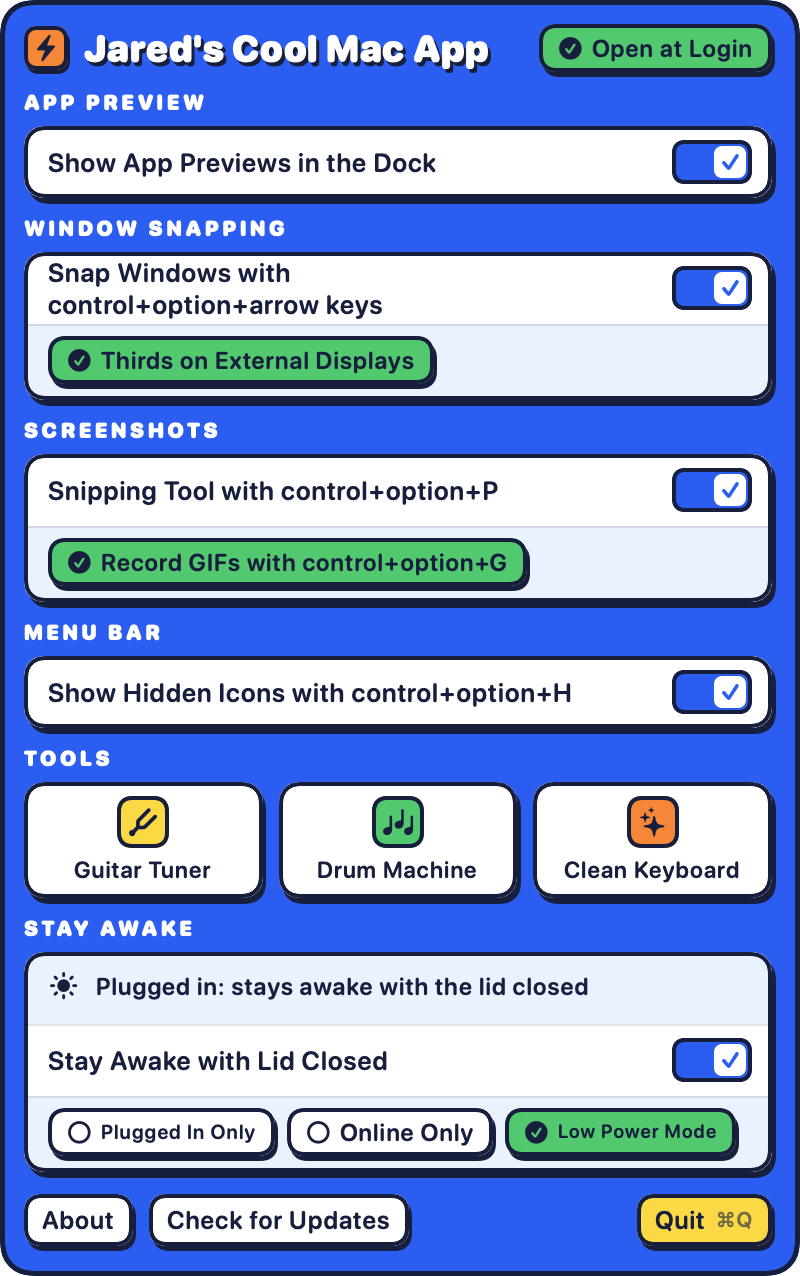
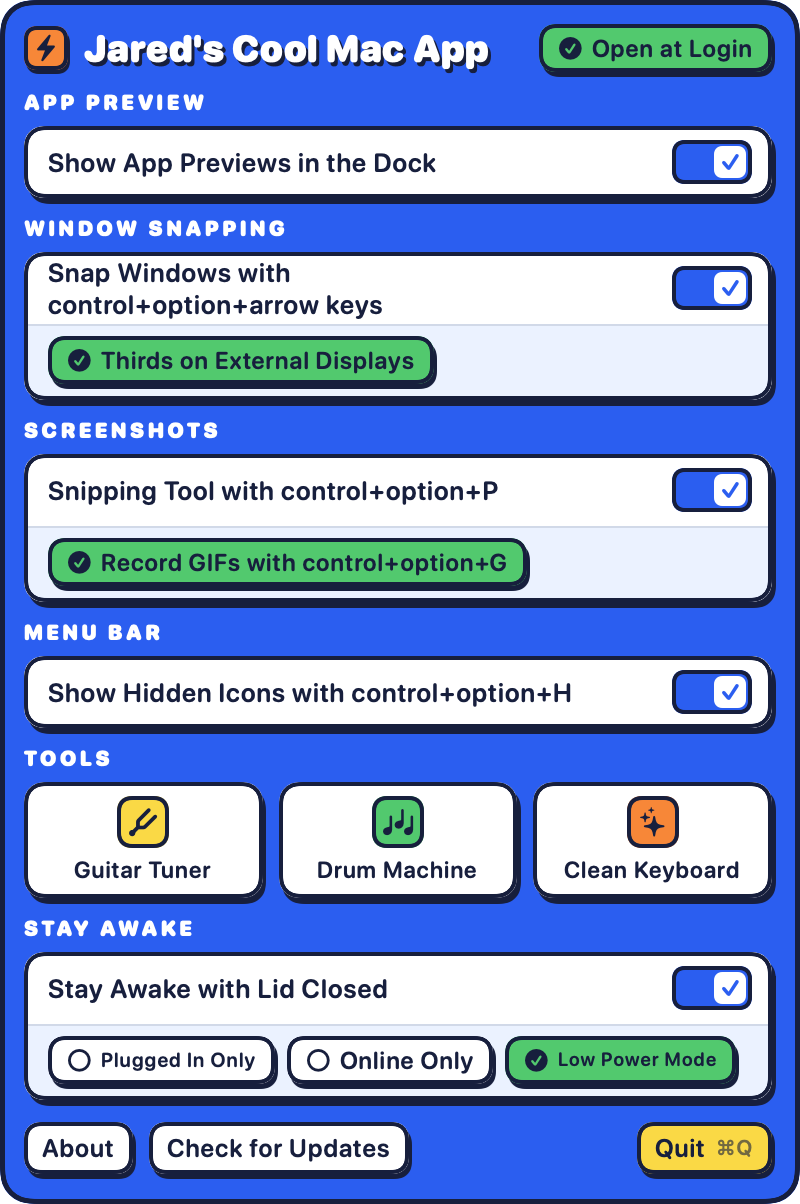
Stay Awake: the status line only when it says more than the switch
"Plugged in: stays awake with the lid closed" read the same whether Plugged In Only was on or not, and only repeated
the switch, as "Off: closing the lid sleeps your Mac" did. Now the line shows only when the Mac will sleep anyway
(on battery with Plugged In Only, battery low, offline with Online Only) or something needs doing (Finish Setup…,
Turn Sleep Back On…). It moves under the options, like the notes under the other switches, so a chip that brings it
up stays under the pointer. The menu bar icon's tooltip still says what it's doing. The README's picture of the
menu loses the row.

diff --git a/Sources/JaredsMacUtils/MenuPanel.swift b/Sources/JaredsMacUtils/MenuPanel.swift
@@ -31,7 +31,8 @@ final class MenuModel {
     var isDisabled: Set<MenuToggle> = []
     var snapAction: MenuAction?
     var snipAction: MenuAction?
-    var stayAwakeSummary = ""
+    /// Only when it says more than the switch does: why the Mac sleeps anyway, or what needs doing
+    var stayAwakeSummary: String?
     var stayAwakeSymbol = "moon.fill"
     var stayAwakeAction: MenuAction?
     var isCheckingForUpdates = false
@@ -249,7 +250,6 @@ struct MenuView: View {
             }
             section("Stay Awake") {
                 card {
-                    StatusRow(model: model)
                     ToggleRow(model: model, toggle: .stayAwake, title: "Stay Awake with Lid Closed")
                     OptionStrip {
                         OptionChip(model: model, toggle: .requirePower, title: "Plugged In Only",
@@ -259,6 +259,8 @@ struct MenuView: View {
                         OptionChip(model: model, toggle: .lowPower, title: "Low Power Mode",
                                    help: "Turns on Low Power Mode while the lid is closed")
                     }
+                    // Under the options, so a chip doesn't move away from the pointer when it brings one up
+                    if let summary = model.stayAwakeSummary { StatusRow(model: model, summary: summary) }
                 }
             }
 
@@ -453,9 +455,11 @@ private struct ActionRow: View {
     }
 }
 
-/// What Stay Awake is doing now, which the menu bar icon shows too, with Finish Setup… or the like beside it
+/// Why Stay Awake lets the Mac sleep after all, or what it needs, with Finish Setup… or the like beside it. Like the
+/// notes under the other switches, it's there only when it has something to say.
 private struct StatusRow: View {
     let model: MenuModel
+    let summary: String
 
     var body: some View {
         HStack(spacing: 10) {
@@ -463,7 +467,7 @@ private struct StatusRow: View {
                 Image(systemName: model.stayAwakeSymbol)
                     .font(.system(size: 12, weight: .bold))
                     .frame(width: 16)
-                Text(model.stayAwakeSummary)
+                Text(summary)
                     .font(Bubble.body(12))
                     .fixedSize(horizontal: false, vertical: true)
             }
@@ -481,7 +485,6 @@ private struct StatusRow: View {
         .padding(.trailing, 10)
         .padding(.top, 6)
         .padding(.bottom, 8)
-        .frame(minHeight: 36)
         .background(Bubble.tint)
         .rowDivider()
     }

diff --git a/Sources/JaredsMacUtils/AppDelegate.swift b/Sources/JaredsMacUtils/AppDelegate.swift
@@ -167,7 +167,7 @@ final class AppDelegate: NSObject, NSApplicationDelegate {
         guard force || menu.isOpen else { return }
         let model = menu.model
         let status = controller.status
-        model.stayAwakeSummary = status.summary
+        model.stayAwakeSummary = status.repeatsSwitch ? nil : status.summary
         model.stayAwakeSymbol = status.symbol
         model.isOn = [
             .appPreviews: previews.isEnabled,
@@ -357,6 +357,15 @@ private extension LidAwakeController.Status {
         case .needsSetup: "Needs your password once to finish setup"
         case .lowPowerNeedsSetup: "Needs your password once more for Low Power Mode"
         case .restoreFailed: "Couldn't turn sleep back on"
+        }
+    }
+
+    /// Says no more than the Stay Awake switch: off, or keeping the Mac awake as asked. The menu leaves it out then,
+    /// and the icon's tooltip still says it.
+    var repeatsSwitch: Bool {
+        switch self {
+        case .off, .active: true
+        case .waitingForPower, .lowBattery, .waitingForInternet, .needsSetup, .lowPowerNeedsSetup, .restoreFailed: false
         }
     }
 
